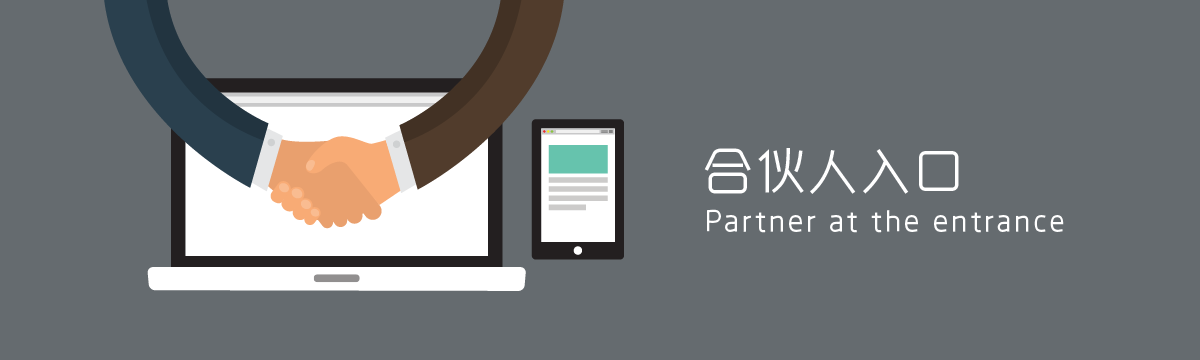
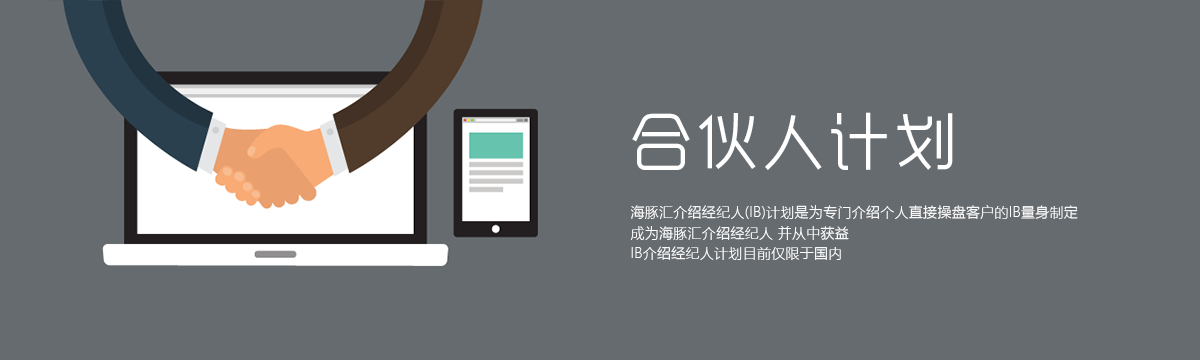
导航修改

Changed region(s): [[0.0308, 0.0, 0.8942, 0.825]]

diff --git a/src/containers/MT4Download/index.js b/src/containers/MT4Download/index.js
@@ -1,0 +1,92 @@
+import React from 'react';
+import style from "./index.css"
+import {hashHistory, Link} from 'react-router';
+import {connect} from 'react-redux'
+import Title from '../../components/title'
+import ContentList from '../../components/contentList'
+import { Button } from 'antd'
+
+let data= [
+    {
+        title:'Meta Trader4：',
+        content:['海豚汇为您免费提供由迈达克公司研发的交易软件Meta Trader 4。MT4是全球最流行的交易软件，在行业内享有领导地位，为交易者提供24小时即时货币报价，让您随时掌握报价行情。','MT4提供几十种系统默认的技术指标，投资者亦可指定或加入自己的技术指标，配合完善的高级图标分析工具，对行情走势进行分析，有效的帮助投资者进行投资分析，并作出英明决策，掌握每一个交易时机。','海豚汇免费为您提供PC、安卓、ios多版本的MT4，随时随地连上网络即可交易。']
+    }
+]
+
+class DealTerrace extends React.Component {
+    constructor(props) {
+        console.log(hashHistory)
+        super(props);
+        this.state = {
+        }
+    }
+
+    render() {
+        return(
+            <div className={style.aboutus}>
+                <div className={style.header}>
+                    <Title content="/交易平台" color="#5262ff" big={true} bold={true}/>
+                </div>
+                <div className={style.content}>
+                    <ContentList data={data}/>
+                    <div className={style.pc}>
+                        <div className={style.title}>
+                            <span>电脑版MT4下载：</span>
+                        </div>
+                        <div className={style.pcdown}>
+                            <img src={require('./images/pcDownload.png')} alt=""/>
+                            <div className={style.but}>
+                                <Button type="primary" ghost icon="windows" style={{width: '220', height: '60', fontSize: '22'}}>&nbsp;windows下载</Button>
+                            </div>
+
+
+                        </div>
+                    </div>
+                    <div className={style.mobile}>
+                        <div className={style.title}>
+                            <span>手机版MT4下载：</span>
+                        </div>
+                        <span className={style.mobiletitle}>温馨提示：目前Android版本只支持浏览器扫描器下载，以此造成的不便，请谅解</span>
+                        <div className={style.mobiledown}>
+                            <div className={style.iosdown}>
+                                <span className={style.mtitlet}>
+                                    扫一扫
+                                </span>
+                                <span className={style.mtitleb}>
+                                    iOS版本下载
+                                </span>
+                                <div className={style.iosqcoad}>
+                                    <img src={require('./images/qcode.jpg')} alt=""/>
+                                </div>
+                            </div>
+                            <div className={style.andrioddown}>
+                                <span className={style.mtitlet}>
+                                    扫一扫
+                                </span>
+                                <span className={style.mtitleb}>
+                                    Android版本下载
+                                </span>
+                                <div className={style.iosqcoad}>
+                                    <img src={require('./images/qcode.jpg')} alt=""/>
+                                </div>
+                            </div>
+                        </div>
+                    </div>
+                </div>
+            </div>
+        )
+    }
+}
+
+function mapStateToProps(state, props) {
+    return {
+        user: state.user
+    }
+}
+
+function mapDispatchToProps(dispatch) {
+    return {}
+}
+
+DealTerrace = connect(mapStateToProps, mapDispatchToProps)(DealTerrace)
+export default DealTerrace;

diff --git a/src/containers/partnerEntry/index.js b/src/containers/partnerEntry/index.js
@@ -3,6 +3,26 @@ import style from "./index.css"
 import { Button } from 'antd'
 import {hashHistory, Link} from 'react-router';
 import {connect} from 'react-redux'
+import ContentList from '../../components/contentList'
+
+let data= [
+    {
+        title:'IB合伙人：',
+        content:['利润丰厚的返佣系统',
+            '免费全方位合作伙伴培训',
+            '自动真实账户注册情况跟踪',
+            '强大的IB客户及佣金跟踪后台',
+            '我们为IB提供多种返佣模式，还可以实现加点功能',
+            'IB可以获得单独的真实账户注册链接，IB可以清楚了解其客户账户的申请、开通和存款状况'
+        ]
+    },{
+        title:'白标计划：',
+        content:[<p>海豚汇白标计划解决方案由我们的内部团队定制开发，专为希望拓展或提升其零售在线交易业务的金融机构提供服务。假如您目前已经拥有一定基础的客户群，那么我们的方案将极其适合您，帮您获得并保留更多客户，与此同时，使用我们高效的一站式Dolphin forex白标解决方案能提高整体利润率和控制性。<br/>
+            我们专门的白标计划团队会在整个实施过程中亲自助君一臂之力，并且根据具体交易、风险和回报要求定制我们的白色标签方案。 您的私人白色标签账户经理会引导您完成实施步骤，直到达到预期增长，包括实施业务和营销策略、销售培训以及销售/客户支持。<br/>
+            最大化您客户的收益，进而最大化您的利润</p>
+        ]
+    }
+]
 
 class PartnerEntry extends React.Component {
     constructor(props) {
@@ -11,15 +31,11 @@ class PartnerEntry extends React.Component {
         this.state = {
 
         }
-
-
-
     }
 
     render() {
 
         return (
-
             <div className={style.partnerEntry}>
                 <div className={style.parenimg}>
                 </div>
@@ -35,6 +51,7 @@ class PartnerEntry extends React.Component {
                         </Link>
                     </div>
                 </div>
+                <ContentList data={data}/>
             </div>
         )
     }

diff --git a/src/components/sideBar/index.js b/src/components/sideBar/index.js
@@ -35,13 +35,13 @@ class SideBar extends Component {
                     <Link to="/ProductDeal">
                         <div className={(() => {
                             return this.checkedForPath('/ProductDeal')
-                        })()}>产品交易
+                        })()}>交易产品
                         </div>
                     </Link>
                     <Link to="/DealTerrace">
                         <div className={(() => {
                             return this.checkedForPath('/DealTerrace')
-                        })()}>交易平台
+                        })()}>MT4软件下载
                         </div>
                     </Link>
                     <Link to="/aboutUs">
@@ -50,12 +50,7 @@ class SideBar extends Component {
                         })()}>关于海豚汇
                         </div>
                     </Link>
-                    <Link to="/DolphinSchool">
-                        <div className={(() => {
-                            return this.checkedForPath('/DolphinSchool')
-                        })()}>合伙人计划
-                        </div>
-                    </Link>
+
                     <Link to="/DolphinSchool">
                         <div className={(() => {
                             return this.checkedForPath('/DolphinSchool')
@@ -74,10 +69,11 @@ class SideBar extends Component {
                         {/*})()}>代理系统*/}
                         {/*</div>*/}
                     {/*</Link>*/}
+
                     <Link to="/partnerEntry">
                         <div className={(() => {
                             return this.checkedForPath('/partnerEntry')
-                        })()}>合伙人入口
+                        })()}>合伙人计划
                         </div>
                     </Link>
                     {/*<Link to="/partnerReg">*/}

diff --git a/src/containers/MT4Download/index.css b/src/containers/MT4Download/index.css
@@ -1,0 +1,77 @@
+:local(.aboutus){
+    padding: 0 20px;
+    padding-top: 48px;
+    padding-bottom: 80px;
+    width: 1200px;
+    margin: 0 auto;
+    background-color: #fff;
+    min-height: 556px;
+}
+:local(.header){
+    margin-bottom: 80px;
+}
+:local(.title){
+    margin-top: 80px;
+    font-size: 24px;
+    padding-bottom: 20px;
+    border-bottom: 1px solid #dfdce4;
+}
+:local(.title)>span{
+    color: #656b6f;
+    font-weight: 600;
+}
+:local(.pcdown){
+    overflow: hidden;
+    padding-top: 48px;
+}
+:local(.pcdown)>img{
+    float: left;
+}
+:local(.but){
+    float: right;
+    margin-right: 200px;
+    margin-top: 100px;
+}
+:local(.mobiletitle){
+    display: block;
+    margin-top: 20px;
+    color: #aaaaaa;
+    font-size: 14px;
+}
+:local(.mobiledown){
+    margin-top: 40px;
+    overflow: hidden;
+}
+:local(.iosdown){
+    width: 200px;
+    float: left;
+    margin-left: 200px;
+}
+:local(.andrioddown){
+    width: 200px;
+    float: right;
+    margin-right: 200px;
+}
+:local(.mtitlet){
+    display: block;
+    font-size: 24px;
+    color: #656b6f;
+    text-align: center;
+}
+:local(.mtitleb){
+    display: block;
+    font-size: 24px;
+    color: #aaa;
+    text-align: center;
+}
+:local(.iosqcoad){
+    width: 200px;
+    height: 200px;
+    border: 1px solid #5262ff;
+    border-radius: 5px;
+    padding: 3px;
+}
+:local(.iosqcoad)>img{
+    width: 192px;
+    height: 192px;
+}

diff --git a/src/routes.js b/src/routes.js
@@ -9,7 +9,7 @@ import Log from './components/loginBox/'
 import Reg from './components/registerBox/'
 import DolphinSchool from './containers/dolphinSchool/'
 import AboutUs from './containers/aboutUs/'
-import DealTerrace from './containers/dealTerrace/'
+import MT4Download from './containers/MT4Download/'
 import ProductDeal from './containers/productDeal/'
 import PartnerEntry from './containers/partnerEntry/'
 
@@ -23,7 +23,7 @@ export default () => {
             <Route path="/reg" component={Reg}/>
             <Route path="/aboutUs" component={AboutUs}/>
             <Route path="/DolphinSchool" component={DolphinSchool}/>
-            <Route path="/DealTerrace" component={DealTerrace}/>
+            <Route path="/MT4Download" component={MT4Download}/>
             <Route path="/ProductDeal" component={ProductDeal}/>
             <Route path="/partnerEntry" component={PartnerEntry}/>
         </Router>

diff --git a/src/containers/dolphinSchool/index.css b/src/containers/dolphinSchool/index.css
@@ -1,0 +1,15 @@
+:local(.aboutus){
+    padding: 0 20px;
+    padding-top: 48px;
+    padding-bottom: 30px;
+    width: 1200px;
+    margin: 0 auto;
+    background-color: #fff;
+    min-height: 556px;
+}
+:local(.header){
+    margin-bottom: 80px;
+}
+:local(.red){
+    color: #f59294;
+}

diff --git a/src/containers/partnerEntry/index.css b/src/containers/partnerEntry/index.css
@@ -10,7 +10,7 @@
 }
 :local(.parencon){
     width: 1200px;
-    height: 200px;
+    height: 150px;
     background-color: #fff;
     padding-top: 40px;
     font-size: 21px;
